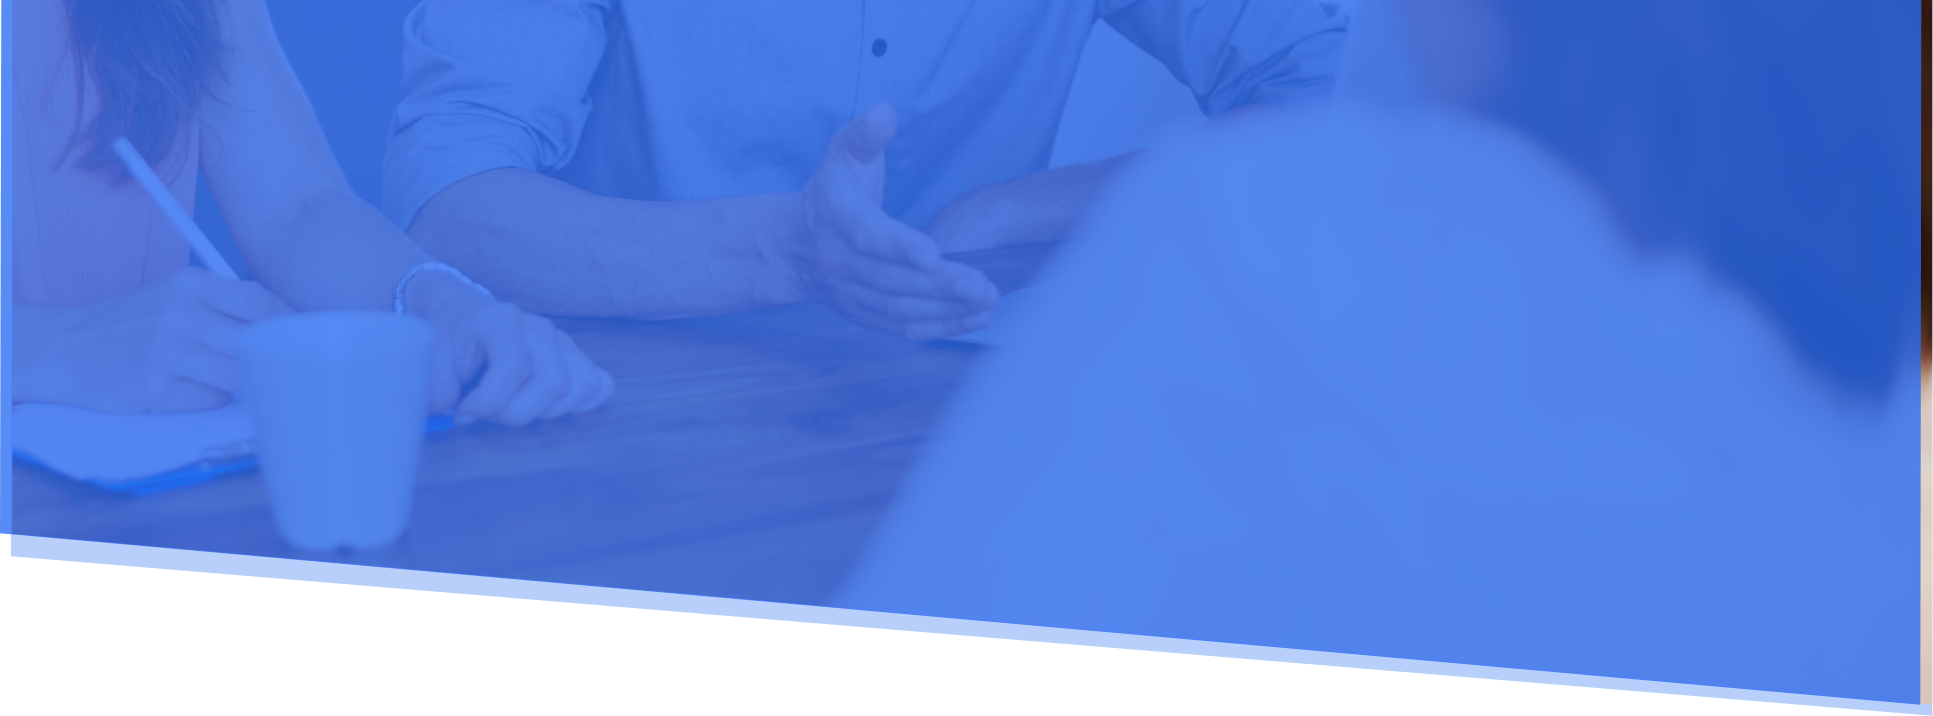
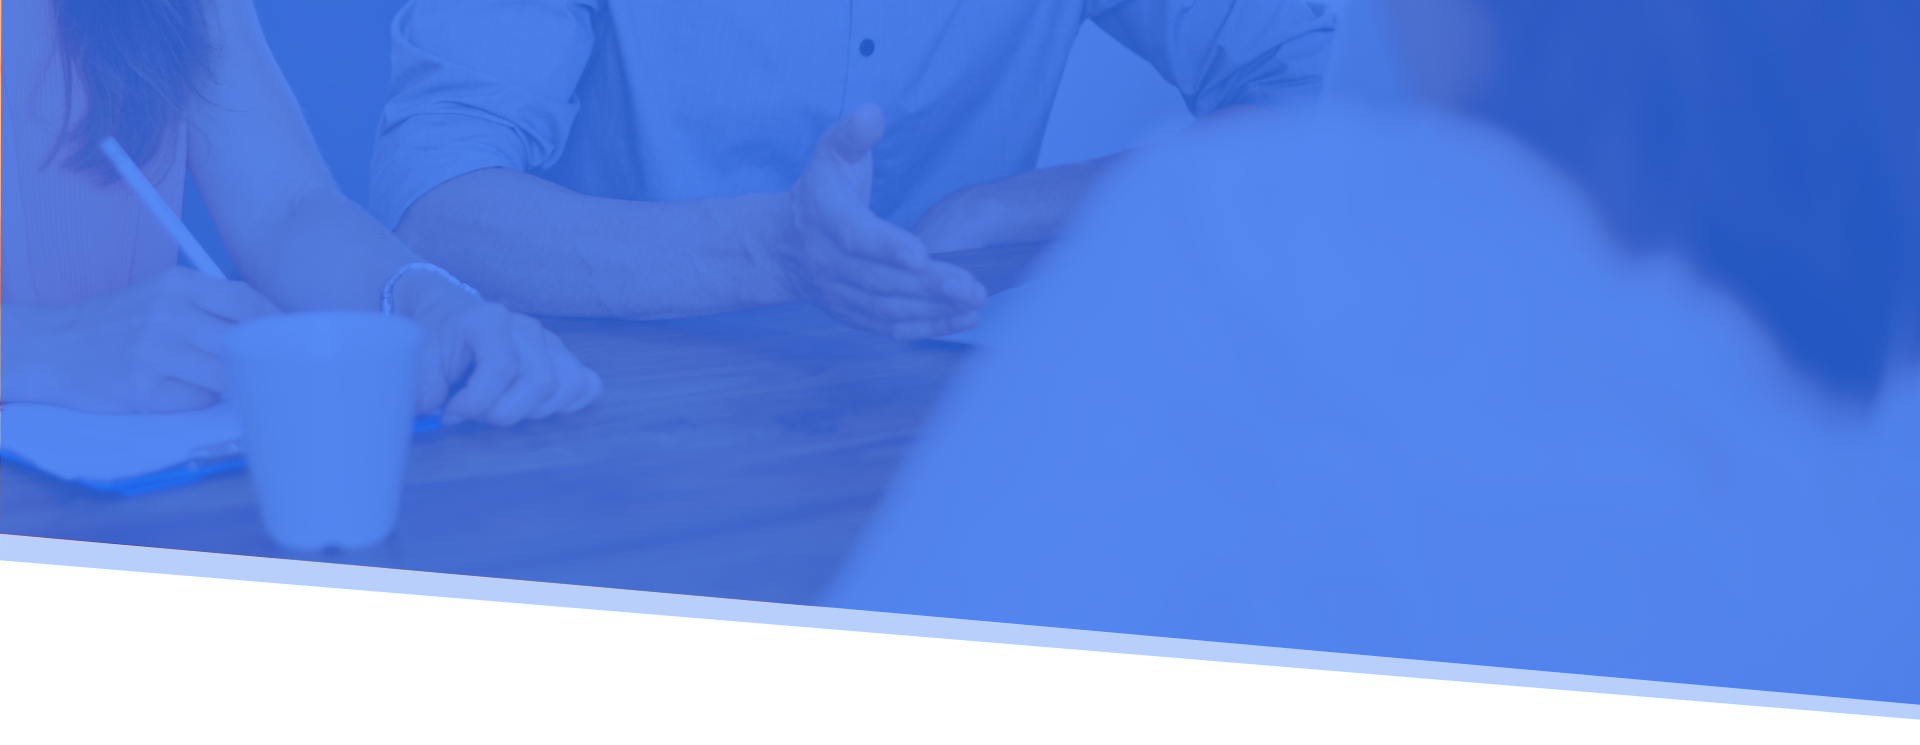
add changes

diff --git a/public/index.html b/public/index.html
@@ -1,1 +1,1 @@
-<!DOCTYPE html><html><head><meta charSet="utf-8"/><meta http-equiv="x-ua-compatible" content="ie=edge"/><meta name="viewport" content="width=device-width, initial-scale=1, shrink-to-fit=no"/><meta name="note" content="environment=development"/><title data-react-helmet="true"></title><link rel="icon" href="/favicon-32x32.png?v=edf3d310d67f8284a562bc3a58c3e761"/><link rel="manifest" href="/manifest.webmanifest"/><meta name="theme-color" content="#663399"/><link rel="apple-touch-icon" sizes="48x48" href="/icons/icon-48x48.png?v=edf3d310d67f8284a562bc3a58c3e761"/><link rel="apple-touch-icon" sizes="72x72" href="/icons/icon-72x72.png?v=edf3d310d67f8284a562bc3a58c3e761"/><link rel="apple-touch-icon" sizes="96x96" href="/icons/icon-96x96.png?v=edf3d310d67f8284a562bc3a58c3e761"/><link rel="apple-touch-icon" sizes="144x144" href="/icons/icon-144x144.png?v=edf3d310d67f8284a562bc3a58c3e761"/><link rel="apple-touch-icon" sizes="192x192" href="/icons/icon-192x192.png?v=edf3d310d67f8284a562bc3a58c3e761"/><link rel="apple-touch-icon" sizes="256x256" href="/icons/icon-256x256.png?v=edf3d310d67f8284a562bc3a58c3e761"/><link rel="apple-touch-icon" sizes="384x384" href="/icons/icon-384x384.png?v=edf3d310d67f8284a562bc3a58c3e761"/><link rel="apple-touch-icon" sizes="512x512" href="/icons/icon-512x512.png?v=edf3d310d67f8284a562bc3a58c3e761"/><script src="/socket.io/socket.io.js"></script></head><body><div id="___gatsby"></div><script src="/commons.js"></script></body></html>
+<!DOCTYPE html><html><head><meta charSet="utf-8"/><meta http-equiv="x-ua-compatible" content="ie=edge"/><meta name="viewport" content="width=device-width, initial-scale=1, shrink-to-fit=no"/><meta name="note" content="environment=development"/><title data-react-helmet="true"></title><link rel="icon" href="/favicon-32x32.png?v=edf3d310d67f8284a562bc3a58c3e761"/><link rel="manifest" href="/manifest.webmanifest"/><meta name="theme-color" content="#663399"/><link rel="apple-touch-icon" sizes="48x48" href="/icons/icon-48x48.png?v=edf3d310d67f8284a562bc3a58c3e761"/><link rel="apple-touch-icon" sizes="72x72" href="/icons/icon-72x72.png?v=edf3d310d67f8284a562bc3a58c3e761"/><link rel="apple-touch-icon" sizes="96x96" href="/icons/icon-96x96.png?v=edf3d310d67f8284a562bc3a58c3e761"/><link rel="apple-touch-icon" sizes="144x144" href="/icons/icon-144x144.png?v=edf3d310d67f8284a562bc3a58c3e761"/><link rel="apple-touch-icon" sizes="192x192" href="/icons/icon-192x192.png?v=edf3d310d67f8284a562bc3a58c3e761"/><link rel="apple-touch-icon" sizes="256x256" href="/icons/icon-256x256.png?v=edf3d310d67f8284a562bc3a58c3e761"/><link rel="apple-touch-icon" sizes="384x384" href="/icons/icon-384x384.png?v=edf3d310d67f8284a562bc3a58c3e761"/><link rel="apple-touch-icon" sizes="512x512" href="/icons/icon-512x512.png?v=edf3d310d67f8284a562bc3a58c3e761"/><link href="https://fonts.googleapis.com/css?family=Limelight|Source+Noto+Sans:300,400,700|Source+Sans+Pro:300,400,700&amp;display=swap" rel="stylesheet"/><script src="/socket.io/socket.io.js"></script></head><body><div id="___gatsby"></div><script src="/commons.js"></script></body></html>

diff --git a/src/components/Header/Header.js b/src/components/Header/Header.js
@@ -25,6 +25,7 @@ const Navigation = styled.div`
 
   display: flex;
   align-items: center;
+
   @media (max-width: 920px) {
     display: none;
   }
@@ -32,19 +33,21 @@ const Navigation = styled.div`
 
 const Header = () => (
   <header>
-    <Wrapper>
-      {" "}
-      <Container>
-        <Logo />
-        <Navigation>
-          <NavBar />
-          <Buttons>
-            <Button text="log in" />
-            <Button text="request a demo" blueType />
-          </Buttons>
-        </Navigation>
-      </Container>
-    </Wrapper>
+    <nav>
+      <Wrapper>
+        {" "}
+        <Container>
+          <Logo />
+          <Navigation>
+            <NavBar />
+            <Buttons>
+              <Button text="log in" />
+              <Button text="request a demo" blueType />
+            </Buttons>
+          </Navigation>
+        </Container>
+      </Wrapper>
+    </nav>
     <HeaderContent />
   </header>
 );

diff --git a/src/components/NavBar/NavBar.js b/src/components/NavBar/NavBar.js
@@ -2,15 +2,11 @@ import React from "react";
 import { Link } from "gatsby";
 import styled from "styled-components";
 
-const NavLinks = styled.div`
-  align-items: center;
-`;
 const StyledLink = styled(Link)`
   text-decoration: none;
-  color: ${(props) => props.white && "white"};
-  font-family: Noto Sans, sans-serif;
-  margin: 0 35px;
+  margin: 0 2.5rem;
   font-weight: bold;
+  color: ${(props) => props.white && "white"};
 
   @media (max-width: 440px) {
     margin: 0 1rem;
@@ -19,7 +15,7 @@ const StyledLink = styled(Link)`
 
 const NavBar = ({ white }) => (
   <>
-    <NavLinks>
+    <div>
       <StyledLink to="/" white={white}>
         Pricing
       </StyledLink>
@@ -32,7 +28,7 @@ const NavBar = ({ white }) => (
       <StyledLink to="/" white={white}>
         Blog
       </StyledLink>
-    </NavLinks>
+    </div>
   </>
 );
 

diff --git a/src/components/MainContent/FirstSection/FirstSection.js b/src/components/MainContent/FirstSection/FirstSection.js
@@ -7,25 +7,29 @@ const MainBlock = styled.div`
   display: flex;
   flex-direction: ${(props) => (props.reverse ? "row-reverse" : "row")};
   text-align: left;
-
+  justify-content: center;
   margin: 58px 0;
 `;
 const Paragraph = styled.div`
   display: flex;
   flex-direction: column;
   justify-content: center;
-
   padding: 100px;
-
   background-color: #f0fcee;
+  color: #2d2d2d;
+
+  max-width: 550px;
 `;
 const ParagraphText = styled.p`
   margin-top: 45px;
 `;
+const Img = styled.img`
+  max-width: 650px;
+`;
 const FirstSection = ({ reverse }) => (
   <MainBlock reverse={reverse}>
     <div>
-      <img src={assistingWoman} width="650px" />
+      <Img src={assistingWoman} />
     </div>
     <Paragraph>
       <h3>How We Started</h3>

diff --git a/src/components/Footer/Footer.js b/src/components/Footer/Footer.js
@@ -34,15 +34,17 @@ const FooterWrapper = styled.div`
 `;
 
 const Footer = () => (
-  <FooterUpperBackground>
-    <SectionOurValues />
-    <FooterBottomBackground>
-      <FooterWrapper>
-        <FooterNav />
-        <Terms />
-      </FooterWrapper>
-    </FooterBottomBackground>
-  </FooterUpperBackground>
+  <footer>
+    <FooterUpperBackground>
+      <SectionOurValues />
+      <FooterBottomBackground>
+        <FooterWrapper>
+          <FooterNav />
+          <Terms />
+        </FooterWrapper>
+      </FooterBottomBackground>
+    </FooterUpperBackground>
+  </footer>
 );
 
 export default Footer;

diff --git a/src/components/Footer/MessengersLogo/MessengersLogo.js b/src/components/Footer/MessengersLogo/MessengersLogo.js
@@ -1,0 +1,25 @@
+import React from "react";
+import styled from "styled-components";
+// import { graphql } from "gatsby";
+// import Img from "gatsby-image";
+import facebook from "../../../images/facebook.png";
+import instagram from "../../../images/instag.png";
+import linked from "../../../images/in.png";
+
+const Container = styled.div``;
+
+const MessengersLogo = () => (
+  <Container>
+    <a>
+      <img src={facebook} />
+    </a>
+    <a>
+      <img src={facebook} />
+    </a>
+    <a>
+      <img src={facebook} />
+    </a>
+  </Container>
+);
+
+export default MessengersLogo;

diff --git a/src/components/Footer/FooterNav/FooterNav.js b/src/components/Footer/FooterNav/FooterNav.js
@@ -3,13 +3,15 @@ import styled from "styled-components";
 
 import Logo from "../../Logo/Logo";
 import Navbar from "../../NavBar/NavBar";
+import MessengersLogo from "../MessengersLogo/MessengersLogo";
 
 const FooterContent = styled.div`
   height: 100%;
-  align-items: center;
+
   display: flex;
   flex-direction: column;
   justify-content: space-evenly;
+  align-items: center;
 }
 `;
 
@@ -27,7 +29,7 @@ const FooterNav = () => (
       <br />
       Tampa, FL 33602
     </Location>
-    <img width="120px" />
+    <MessengersLogo />
   </FooterContent>
 );
 

diff --git a/src/theme/global-style.js b/src/theme/global-style.js
@@ -4,8 +4,10 @@ export const GlobalStyle = createGlobalStyle`
 
   *{
     box-sizing: border-box;
-    font-size:15px;
+    font-size:16px;
+    line-height: 1.5;
     font-family:Noto Sans,sans-serif;
+    word-spacing: 1px;
     margin:0;
     padding:0;
 
@@ -24,10 +26,12 @@ export const GlobalStyle = createGlobalStyle`
   h3{
     font-weight:bold;
     font-size:1.8rem;
-    font-family: Arial,sans-serif;
+  
   }
   p{
     font-weight: 400;
+    line-height: 1.7rem;
+    font-size: 1.125rem;
   }
   a{
     color:black;

diff --git a/.cache/api-runner-ssr.js b/.cache/api-runner-ssr.js
@@ -7,6 +7,9 @@ var plugins = [{
     },{
       plugin: require('/Users/mac/Desktop/ch/node_modules/gatsby-plugin-styled-components/gatsby-ssr'),
       options: {"plugins":[]},
+    },{
+      plugin: require('/Users/mac/Desktop/ch/node_modules/gatsby-plugin-google-fonts/gatsby-ssr'),
+      options: {"plugins":[],"fonts":["limelight","source noto sans:300,400,700","source sans pro:300,400,700"],"display":"swap"},
     }]
 // During bootstrap, we write requires at top of this file which looks like:
 // var plugins = [

diff --git a/src/components/Button/Button.js b/src/components/Button/Button.js
@@ -2,13 +2,17 @@ import React from "react";
 import styled from "styled-components";
 
 const ButtonCover = styled.button`
-  text-transform: uppercase;
   display: flex;
+
   font-weight: bold;
+  text-transform: uppercase;
+
   outline: none;
   cursor: pointer;
+
   padding: 7.5px 30px;
   margin-left: 25px;
+
   background-color: ${(props) => (props.type ? "#3E7DFE" : "transparent")};
   color: ${(props) => (props.type ? "white" : "black")};
   border: solid 2px ${(props) => (props.type ? "#3E7DFE" : "black")};

diff --git a/src/components/Header/HeaderContent/HeaderContent.js b/src/components/Header/HeaderContent/HeaderContent.js
@@ -7,7 +7,7 @@ import headerBackground from "../../../images/header-blue.png";
 const Tagline = styled.div`
   display: flex;
   align-items: center;
-  height: 600px;
+  min-height: 600px;
 `;
 const MainTitle = styled.h1`
   width: 700px;
@@ -22,7 +22,7 @@ const Wrapper = styled.div`
 const HeaderBackground = styled.div`
   background: url(${headerBackground}) center;
   background-size: cover;
-  height: 600px;
+  height: 45vw;
 `;
 const HeaderContent = () => (
   <HeaderBackground>

diff --git a/src/components/Footer/OurValues/SectionOurValues.js b/src/components/Footer/OurValues/SectionOurValues.js
@@ -8,7 +8,7 @@ const Wrapper = styled.div`
   display: flex;
   flex-direction: column;
   align-items: center;
-
+  text-align: center;
   color: white;
 `;
 const CasesWrapper = styled.div`
@@ -21,6 +21,10 @@ const Container = styled.div`
   display: flex;
   width: 100%;
   justify-content: space-around;
+
+  @media (max-width: 600px) {
+    flex-wrap: wrap;
+  }
 `;
 const SectionOurValues = () => (
   <Wrapper>
